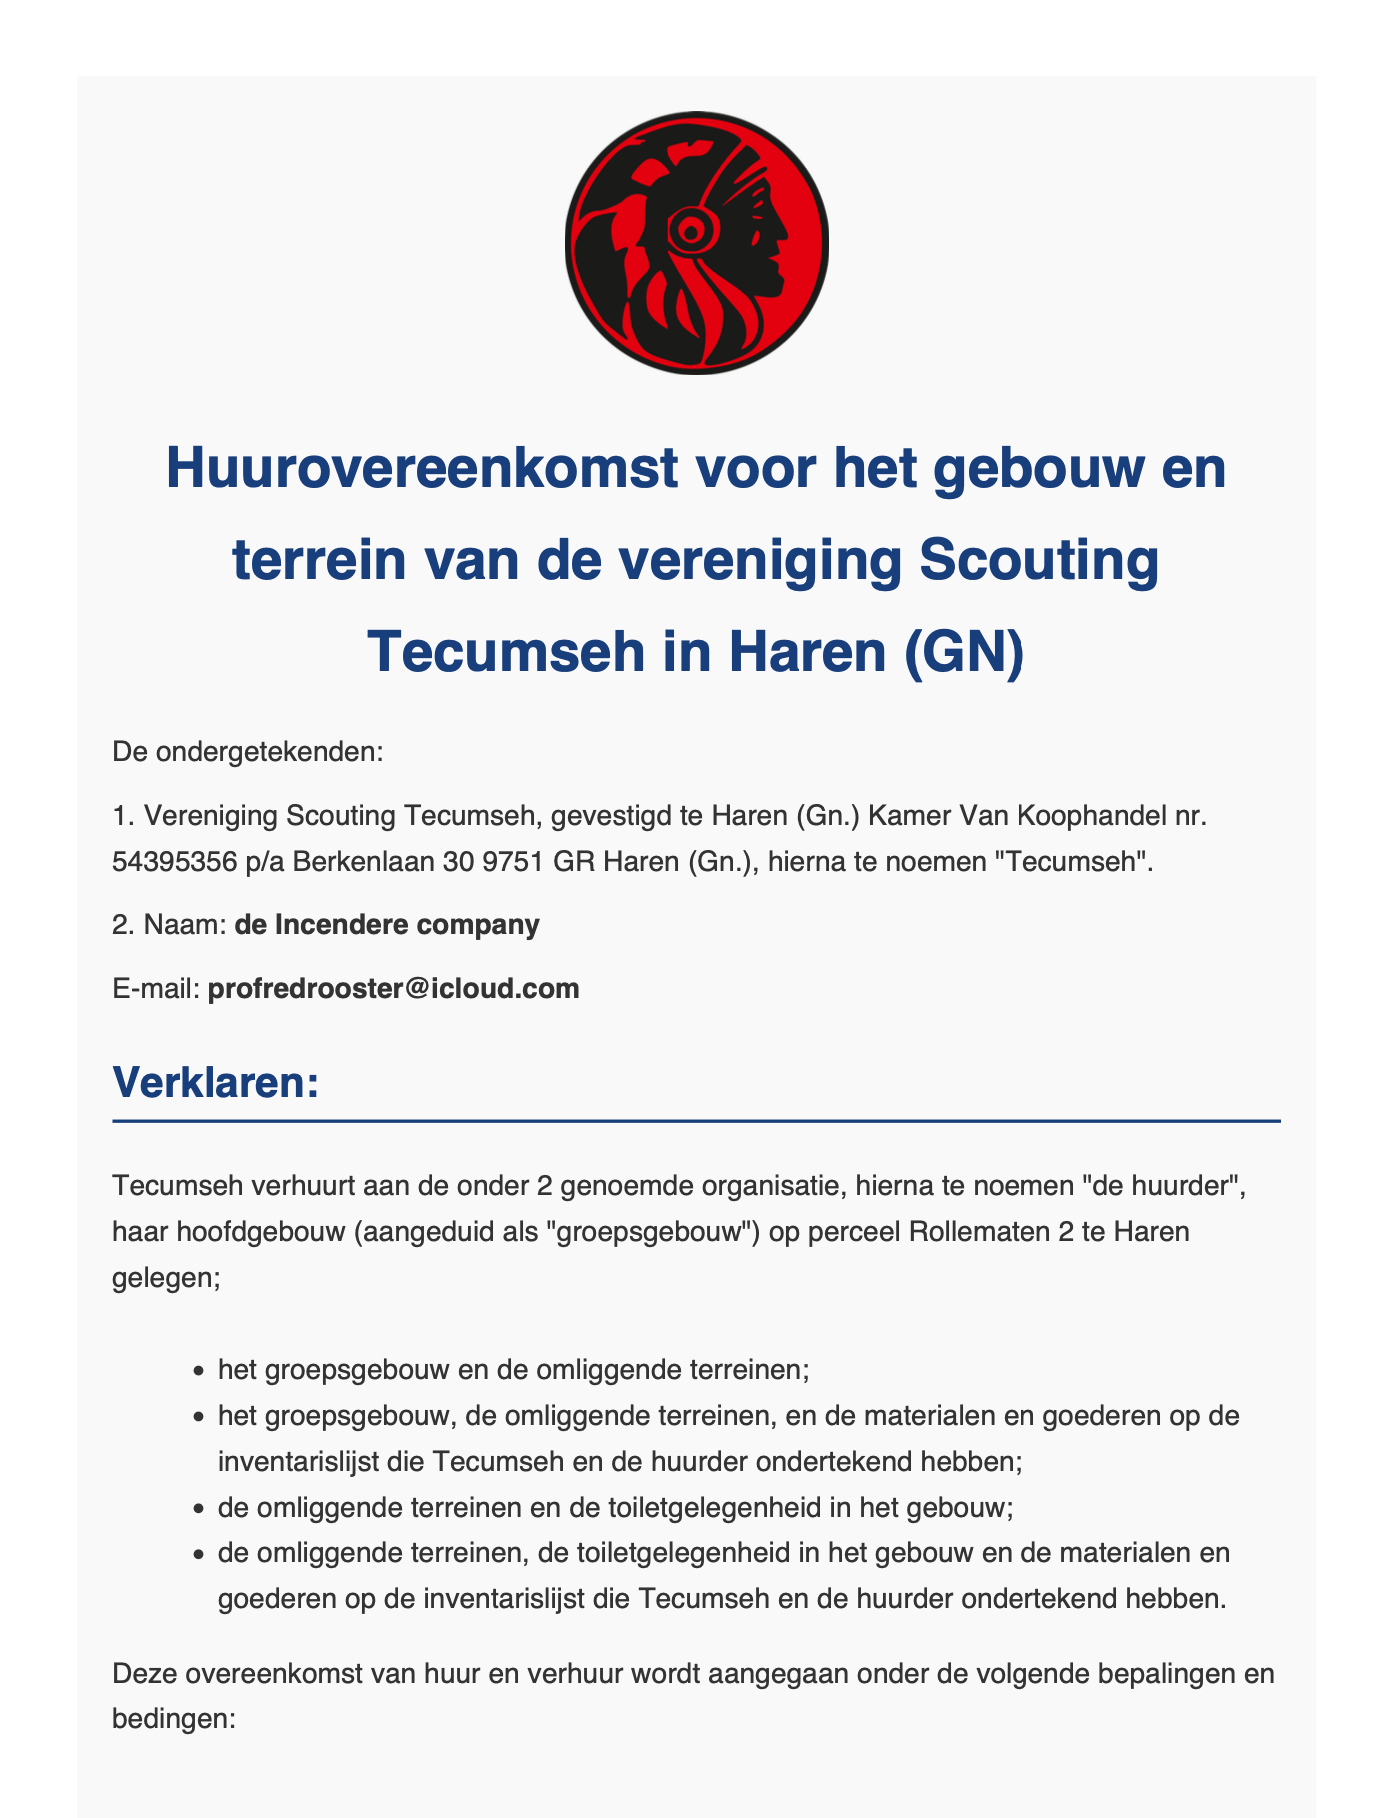
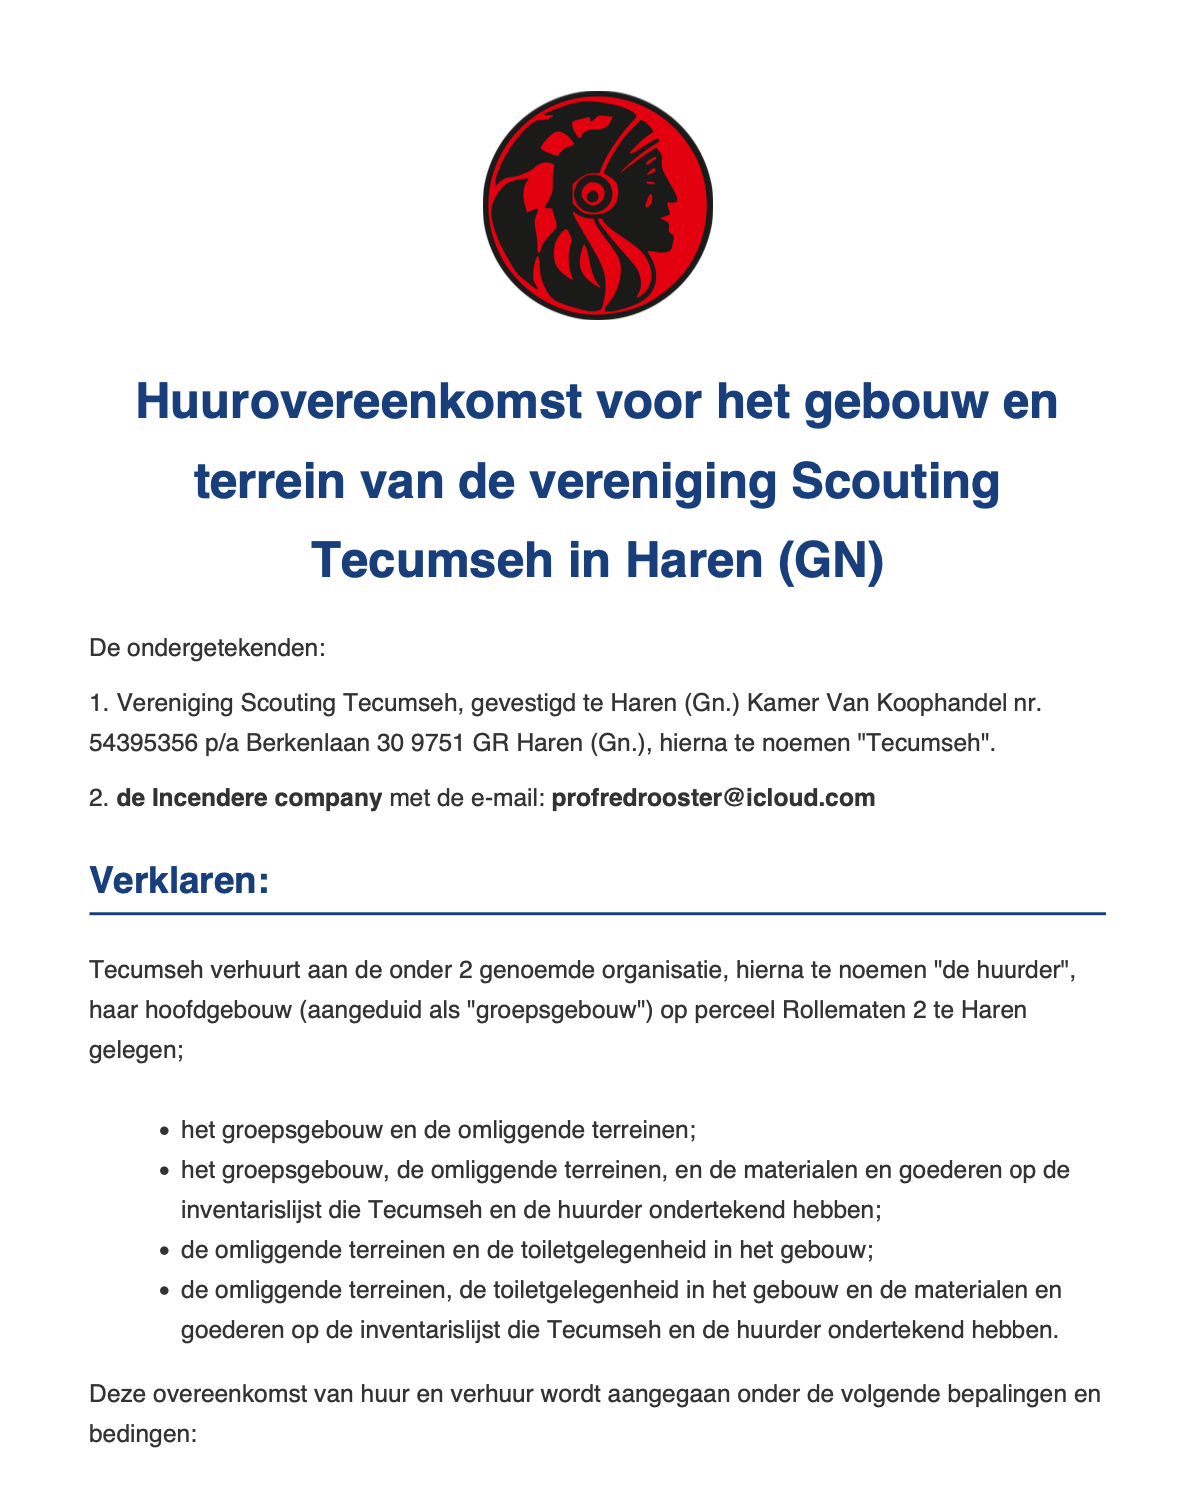
docs

diff --git a/docs/readme.md b/docs/readme.md
@@ -43,5 +43,6 @@ Het verhuurformulier
 Het paneel voor aankomende reserveringen voor "stam" leden
 ![Afbeelding 4](https://verhuur.rohandg.nl/4.png)
 
-Een voorbeeld van een gedeelte van de verhuur overeenkomst (het word automatisch ingevult met alle gegevens) Dit word via dompdf gedaan door de html om te zetten
+Een voorbeeld van een gedeelte van de verhuur overeenkomst (het word automatisch ingevult met alle gegevens) Dit word via dompdf gedaan via html en css
 ![Afbeelding 5](https://verhuur.rohandg.nl/5.png)
+![Afbeelding 6](https://verhuur.rohandg.nl/6.png)
